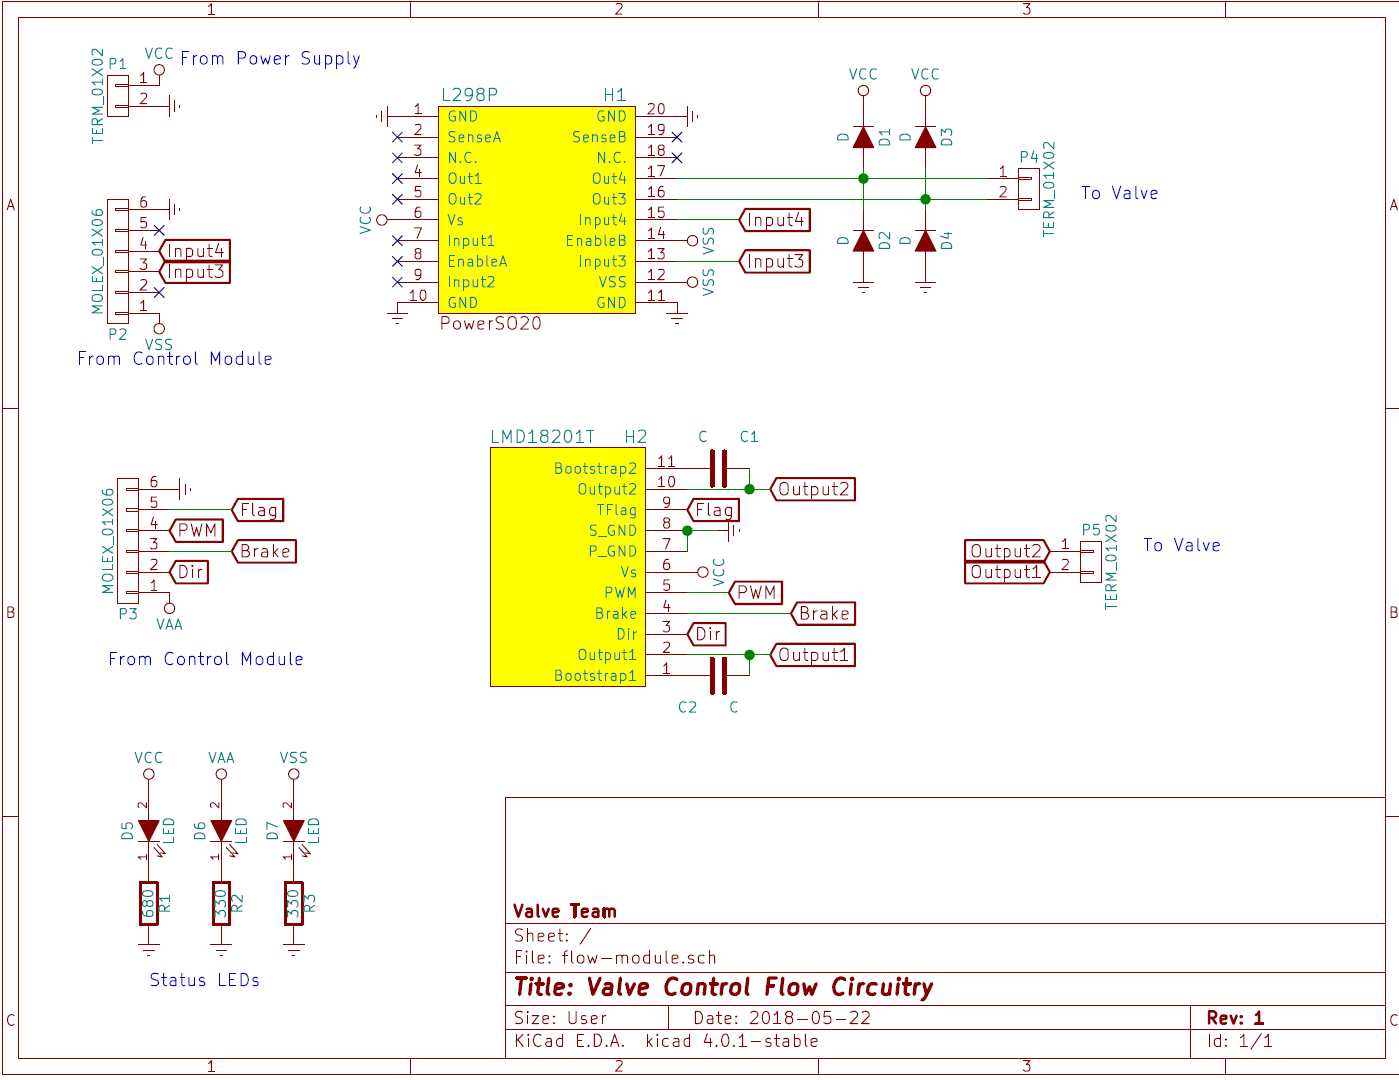
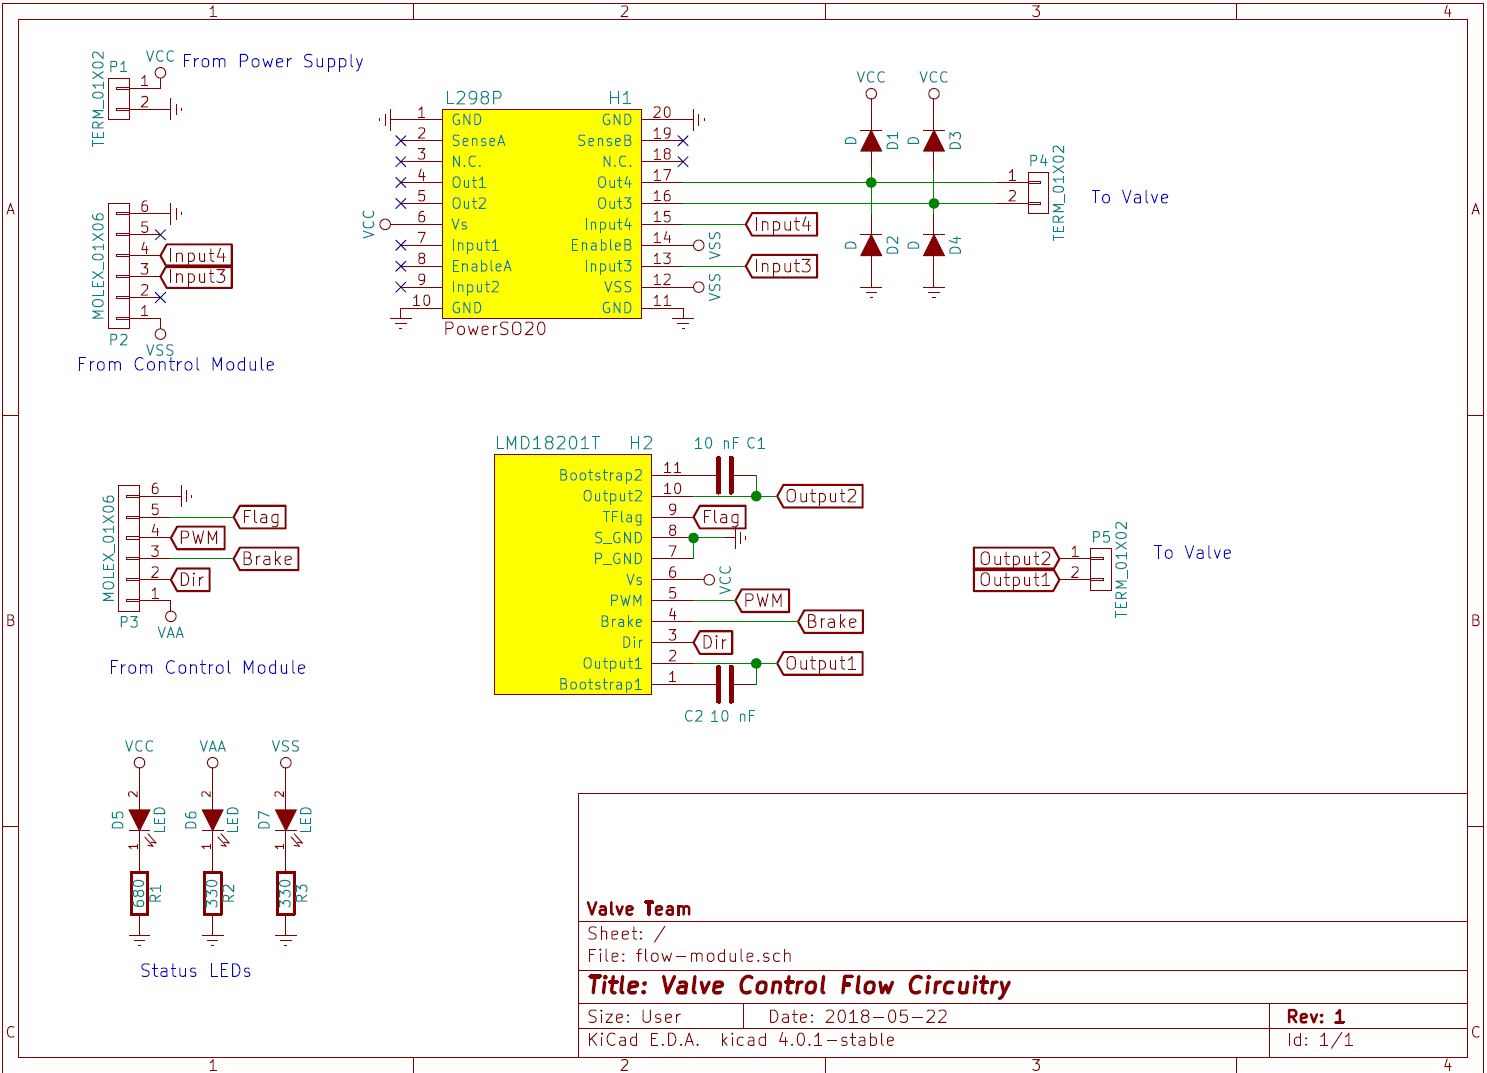
Update images, add more stuff.

diff --git a/submodules/flow_control_module.md b/submodules/flow_control_module.md
@@ -14,6 +14,7 @@
     - [Our Implementation](#our-implementation)
         - [The Schematic](#the-schematic)
         - [The PCB](#the-pcb)
+        - [The 3D Module](#the-3d-module)
     - [Testing Results](#testing-results)
         - [Valve Testing](#valve-testing)
     - [Recommendations](#recommendations)
@@ -97,8 +98,16 @@ After our design process, we were ready to implement our design. Please note tha
 Please note that footprint and component files (or *libraries*, using KiCad terminology) will be required to modify files in the GitHub repository; these can be found in our parts library repository [here](https://github.com/valveteam/parts-library). 
 
 ### The Schematic
+![Flow Control Module - Schematic](https://raw.githubusercontent.com/valveteam/documentation/master/submodules/flow_control_res/flow-module-schematic.png)
+
+The schematic above shows the connections between different components within for the PCB. Note that:
+- There are two different H-Bridge chips; the [`L298P` (click for the datasheet)](https://www.sparkfun.com/datasheets/Robotics/L298_H_Bridge.pdf) is a standard part, commonly used for hobby electronics and is fairly cheap.[`LMD18021T`](http://www.ti.com/lit/ds/symlink/lmd18201.pdf) which is about twice the price of the `L298P` but is more robust in terms of the input voltages it accepts and incorporates some advanced features such as a thermal flag output. 
 
 ### The PCB
+![Flow Control Module - PCB](https://raw.githubusercontent.com/valveteam/documentation/master/submodules/flow_control_res/flow-module-layout.png)
+
+### The 3D Module
+![Flow Control Module - 3D Module](https://raw.githubusercontent.com/valveteam/documentation/master/submodules/flow_control_res/flow-module-3d-model.png)
 
 ## Testing Results
 ### Valve Testing
